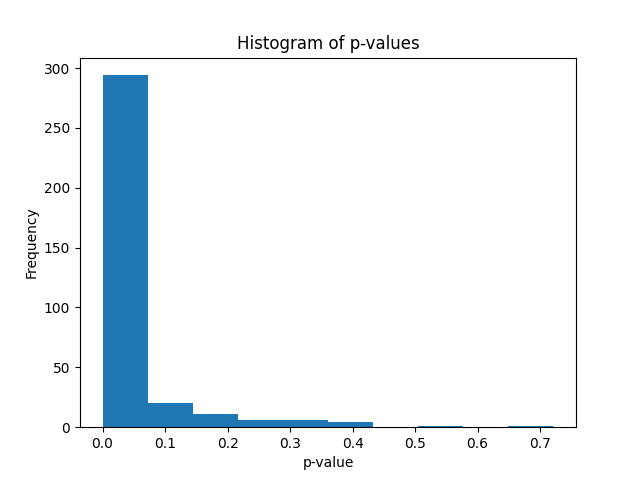
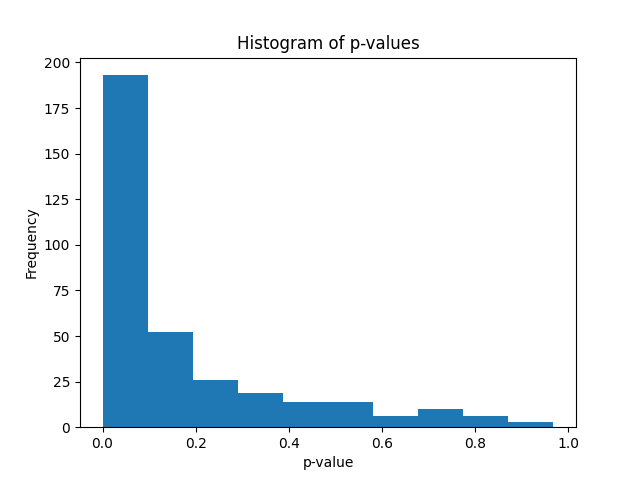
p-value-cam

diff --git a/main.py b/main.py
@@ -273,7 +273,7 @@ if __name__ == '__main__':
             relative_pose = torch.tensor(find_poses(test_img, target_cal_img))
             relative_R = relative_pose[:3, :3]
             relative_t = relative_pose[:3, 3]
-            adj_R = relative_R @ test_R
+            adj_R = relative_R.T @ test_R
             adj_q = compute_quaternions_from_rotation_matrices(adj_R.unsqueeze(0))
             rot_err = rotation_err(target_cal_q, adj_q)
         # p_value = (rot_err.item() <= calib_rot_nc).sum()/len(calib_rot_nc)
